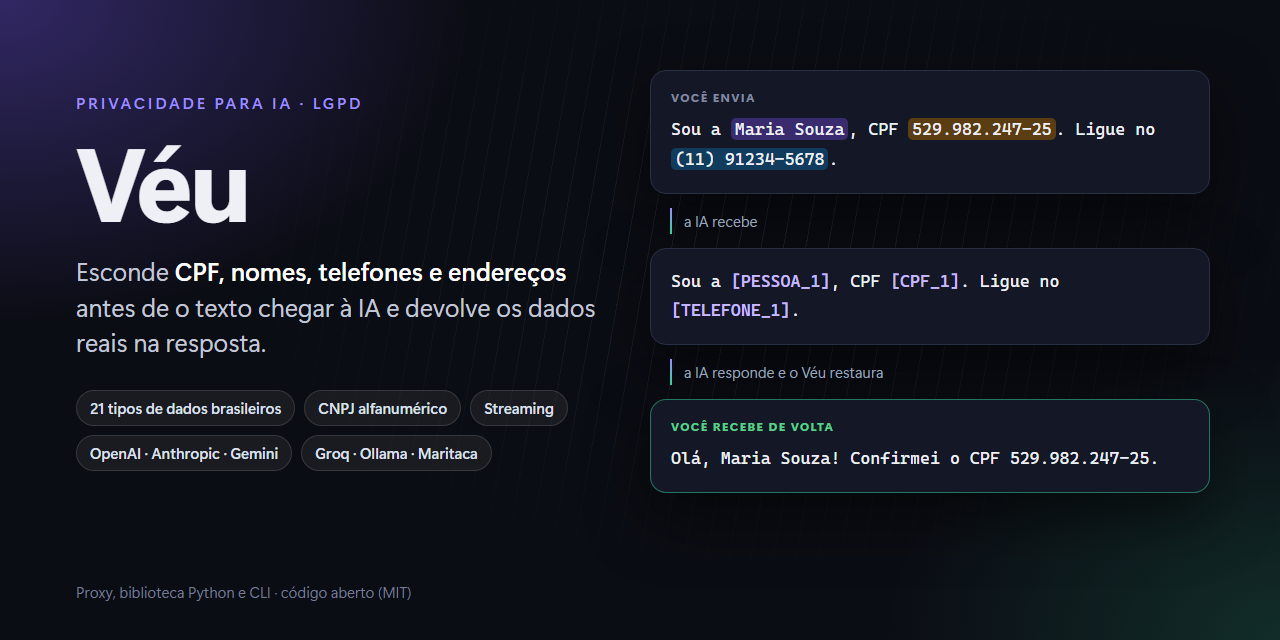
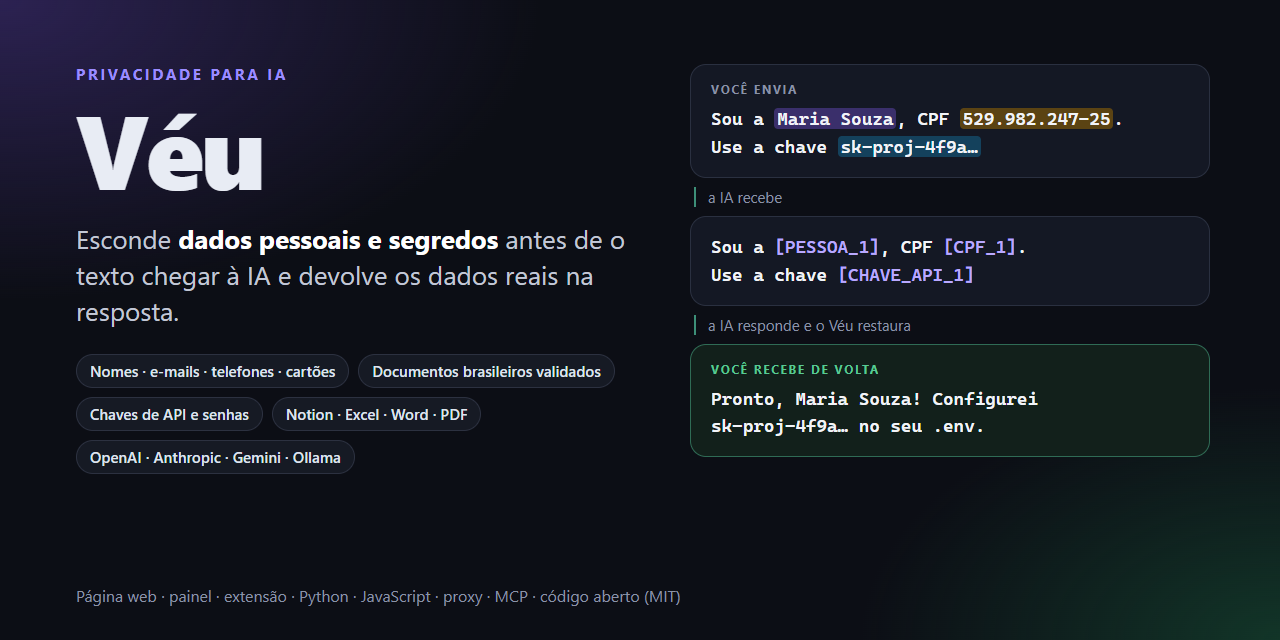
Present Véu as protection for personal data and secrets in general
Rewrite the README opening and features, regenerate the banner from a
versioned HTML source, and update the PyPI, npm, Action, pre-commit
and MCP descriptions. Brazilian documents stay as the most complete
support, and other countries' documents join the roadmap.

diff --git a/docs/banner.html b/docs/banner.html
@@ -1,0 +1,67 @@
+<!doctype html>
+<!--
+  Fonte do docs/banner.png (1280x640, também serve de imagem de compartilhamento do GitHub).
+  Para regerar depois de mudar o texto:
+    node docs/gerar-banner.mjs
+-->
+<html lang="pt-BR">
+<head>
+<meta charset="utf-8">
+<style>
+  * { box-sizing: border-box; margin: 0; }
+  body { width: 1280px; height: 640px; overflow: hidden; font-family: "Segoe UI", system-ui, sans-serif; color: #e8ecf4;
+    background: radial-gradient(900px 500px at 0% 0%, #2c2252 0%, transparent 60%),
+                radial-gradient(700px 420px at 100% 100%, #123528 0%, transparent 60%), #0c0e15; }
+  .grade { display: grid; grid-template-columns: 560px 1fr; gap: 54px; padding: 64px 70px 0 76px; }
+  .selo { color: #9b8cff; letter-spacing: .18em; font-weight: 700; font-size: 15px; margin-bottom: 14px; }
+  h1 { font-size: 104px; line-height: .95; letter-spacing: -.03em; font-weight: 800; margin-bottom: 24px; }
+  .frase { font-size: 26px; line-height: 1.38; color: #c2c8d6; margin-bottom: 26px; }
+  .frase b { color: #fff; }
+  .chips { display: flex; flex-wrap: wrap; gap: 9px; }
+  .chips span { border: 1px solid #2c3140; background: #161a24; border-radius: 999px; padding: 6px 13px; font-size: 15px; font-weight: 600; color: #dfe4ee; }
+  .cartao { border: 1px solid #2a3040; background: #141824; border-radius: 16px; padding: 16px 20px; }
+  .cartao.volta { border-color: #2f6b55; background: #12201b; }
+  .rotulo { font-size: 12px; letter-spacing: .14em; font-weight: 700; color: #8b93a7; margin-bottom: 8px; }
+  .volta .rotulo { color: #59c995; }
+  .codigo { font: 600 18px/1.55 "Cascadia Mono", Consolas, monospace; color: #f2f4f8; }
+  .p { background: #3a2f6b; border-radius: 4px; padding: 0 3px; }
+  .d { background: #5b4313; border-radius: 4px; padding: 0 3px; }
+  .s { background: #14415c; border-radius: 4px; padding: 0 3px; }
+  .m { color: #b9a8ff; }
+  .seta { color: #8b93a7; font-size: 15px; margin: 9px 0 9px 4px; padding-left: 12px; border-left: 2px solid #3d8f78; }
+  .rodape { position: absolute; left: 76px; bottom: 34px; color: #8b93a7; font-size: 16px; }
+</style>
+</head>
+<body>
+  <div class="grade">
+    <div>
+      <div class="selo">PRIVACIDADE PARA IA</div>
+      <h1>Véu</h1>
+      <p class="frase">Esconde <b>dados pessoais e segredos</b> antes de o texto chegar à IA e devolve os dados reais na resposta.</p>
+      <div class="chips">
+        <span>Nomes · e-mails · telefones · cartões</span>
+        <span>Documentos brasileiros validados</span>
+        <span>Chaves de API e senhas</span>
+        <span>Notion · Excel · Word · PDF</span>
+        <span>OpenAI · Anthropic · Gemini · Ollama</span>
+      </div>
+    </div>
+    <div>
+      <div class="cartao">
+        <div class="rotulo">VOCÊ ENVIA</div>
+        <div class="codigo">Sou a <span class="p">Maria Souza</span>, CPF <span class="d">529.982.247-25</span>.<br>Use a chave <span class="s">sk-proj-4f9a…</span></div>
+      </div>
+      <div class="seta">a IA recebe</div>
+      <div class="cartao">
+        <div class="codigo">Sou a <span class="m">[PESSOA_1]</span>, CPF <span class="m">[CPF_1]</span>.<br>Use a chave <span class="m">[CHAVE_API_1]</span></div>
+      </div>
+      <div class="seta">a IA responde e o Véu restaura</div>
+      <div class="cartao volta">
+        <div class="rotulo">VOCÊ RECEBE DE VOLTA</div>
+        <div class="codigo">Pronto, Maria Souza! Configurei<br>sk-proj-4f9a… no seu .env.</div>
+      </div>
+    </div>
+  </div>
+  <div class="rodape">Página web · painel · extensão · Python · JavaScript · proxy · MCP · código aberto (MIT)</div>
+</body>
+</html>

diff --git a/web/index.html b/web/index.html
@@ -86,9 +86,9 @@
 
     <details class="mais">
       <summary>O que o Véu encontra?</summary>
-      <p>Documentos brasileiros (CPF, CNPJ, RG, CNH, título, PIS, cartão do SUS), nomes, telefones, e-mails, endereços,
-        CEP, placas, cartões, contas, Pix, datas de nascimento, processos judiciais, IBAN, chaves de API, tokens, senhas e
-        chaves privadas. CPF, CNPJ e outros documentos são conferidos pelo dígito verificador.</p>
+      <p>Nomes, e-mails, telefones (de qualquer país), endereços, cartões, IBAN, endereços IP, datas de nascimento,
+        chaves de API, tokens, senhas e chaves privadas. E também documentos brasileiros (CPF, CNPJ, RG, CNH, título, PIS,
+        cartão do SUS, CEP, placas, Pix, processos judiciais), conferidos pelo dígito verificador.</p>
       <p>Nenhuma detecção automática é perfeita: confira o texto protegido antes de enviar.</p>
     </details>
   </main>

diff --git a/src/veu/integrations/mcp.py b/src/veu/integrations/mcp.py
@@ -30,7 +30,7 @@ from veu.vault import Vault
 
 MAX_FILE_BYTES = 20 * 1024 * 1024
 INSTRUCTIONS = (
-    "O Véu encontra e esconde dados pessoais brasileiros e segredos (CPF, CNPJ, nomes, telefones, e-mails, endereços, "
+    "O Véu encontra e esconde dados pessoais e segredos (nomes, e-mails, telefones, endereços, CPF, CNPJ, cartões, "
     "chaves de API, senhas...). Para ler uma página do Notion, um Google Docs/Sheets, um link ou um documento (Word, "
     "Excel, PowerPoint, PDF), use ler_protegido: o conteúdo chega com os dados trocados por marcadores. Para arquivos, "
     "prefira verificar_arquivo e anonimizar_arquivo: eles processam os dados localmente e devolvem só contagens e "

diff --git a/src/veu/__init__.py b/src/veu/__init__.py
@@ -1,4 +1,4 @@
-"""Véu: esconde dados pessoais brasileiros antes de enviar textos para modelos de IA.
+"""Véu: esconde dados pessoais e segredos antes de enviar textos para modelos de IA.
 
 Uso rápido:
 

diff --git a/README.md b/README.md
@@ -1,5 +1,5 @@
 <p align="center">
-  <img src="docs/banner.png" alt="Véu: esconde CPF, nomes, telefones e endereços antes de o texto chegar à IA e devolve os dados reais na resposta" width="100%">
+  <img src="docs/banner.png" alt="Véu: esconde dados pessoais e segredos antes de o texto chegar à IA e devolve os dados reais na resposta" width="100%">
 </p>
 
 <p align="center">
@@ -13,20 +13,25 @@
 
 # Véu
 
-**O Véu esconde dados pessoais e segredos antes de um texto chegar a uma IA e devolve os dados reais na resposta.** A IA trabalha com `[PESSOA_1]`, `[CPF_1]` e `[CHAVE_API_1]`. Você vê "Maria Souza", "529.982.247-25" e a chave de verdade.
+**O Véu esconde dados pessoais e segredos antes de um texto chegar a uma IA e devolve os dados reais na resposta.** A IA trabalha com `[PESSOA_1]`, `[EMAIL_1]` e `[CHAVE_API_1]`. Você vê os dados de verdade.
 
 ```text
-Você envia     Sou a Maria Souza, CPF 529.982.247-25. Meu pedido atrasou.
-A IA recebe    Sou a [PESSOA_1], CPF [CPF_1]. Meu pedido atrasou.
-A IA responde  Olá, [PESSOA_1]! Localizei o pedido do CPF [CPF_1].
-Você recebe    Olá, Maria Souza! Localizei o pedido do CPF 529.982.247-25.
+Você envia     Sou a Maria Souza (maria@example.com), CPF 529.982.247-25. Use a chave sk-proj-4f9a...
+A IA recebe    Sou a [PESSOA_1] ([EMAIL_1]), CPF [CPF_1]. Use a chave [CHAVE_API_1]
+A IA responde  Pronto, [PESSOA_1]! Configurei [CHAVE_API_1] no seu .env.
+Você recebe    Pronto, Maria Souza! Configurei sk-proj-4f9a... no seu .env.
 ```
 
-Empresas e pessoas estão colocando IA no atendimento, nos contratos, no RH e no código. Junto com cada pergunta vão CPF, nome e telefone de clientes, e também chaves de API e senhas. O Véu fica no meio do caminho:
+Empresas e pessoas estão colocando IA no atendimento, nos contratos, no RH e no código. Junto com cada pergunta vão nomes, documentos e contatos de clientes, e também chaves de API e senhas. O Véu fica no meio do caminho e protege:
 
-- **Entende documentos brasileiros de verdade:** confere os dígitos verificadores, inclusive do CNPJ alfanumérico de 2026.
-- **Reconhece segredos:** chaves de mais de 30 serviços, tokens, senhas e chaves privadas.
-- **Funciona do jeito que você usa IA:** no navegador, no computador, no seu código ou no servidor da empresa.
+- **Dados pessoais de qualquer país:** nomes, e-mails, telefones (com código de qualquer país), cartões, IBAN, endereços IP e datas de nascimento.
+- **Documentos brasileiros, conferidos de verdade:** CPF, CNPJ (inclusive o alfanumérico de 2026), RG, CNH, PIS, cartão do SUS e outros, pelos dígitos verificadores.
+- **Segredos de qualquer serviço:** chaves de API de mais de 30 serviços, tokens, senhas, chaves privadas e URLs de banco com senha.
+
+E funciona do jeito que você usa IA: no navegador, no computador, no seu código ou no servidor da empresa.
+
+> [!NOTE]
+> O Véu nasceu no Brasil: os documentos brasileiros têm o suporte mais completo e a interface está em português. E-mails, telefones internacionais, cartões, IBAN, IPs e segredos funcionam em textos de qualquer lugar. Os nomes são reconhecidos por listas de nomes brasileiros; para nomes de outras línguas, ligue o detector spaCy ou um modelo local. Documentos de outros países estão nos [próximos passos](#próximos-passos).
 
 > [!IMPORTANT]
 > Nenhuma detecção automática é perfeita. O Véu **reduz** muito o risco de enviar dados pessoais, mas não o elimina. Veja os [números do benchmark](#benchmark) e as [limitações](SECURITY.md#o-que-o-véu-não-faz). Não é aconselhamento jurídico sobre a LGPD.
@@ -88,12 +93,8 @@ Para abrir de novo, use o atalho **Véu** ou rode `veu painel`.
 
 ## Recursos
 
-- 🇧🇷 **28 tipos de dados:**
-  - documentos brasileiros: CPF, CNPJ, RG, CNH, título de eleitor, PIS/NIT, cartão do SUS e passaporte;
-  - contatos e localização: nomes de pessoas, telefone (brasileiro e internacional), e-mail, endereço, CEP e IP;
-  - financeiros: cartão, conta bancária, IBAN e chave Pix;
-  - outros: placa, RENAVAM, data de nascimento e processo do CNJ;
-  - **segredos**.
+- 🌍 **Dados pessoais de qualquer lugar:** nomes, e-mails, telefones (brasileiros e de qualquer país, com +código), endereços, cartões de crédito, IBAN, endereços IP (v4 e v6) e datas de nascimento.
+- 🇧🇷 **Documentos brasileiros:** CPF, CNPJ (numérico e alfanumérico), RG, CNH, título de eleitor, PIS/NIT, cartão do SUS, passaporte, CEP, placa, RENAVAM, conta bancária, chave Pix e processo do CNJ.
 - 🔑 **Segredos:**
   - chaves da OpenAI, Anthropic, AWS, Google, GitHub, Stripe, Slack, Hugging Face, Notion, Mercado Pago, Asaas e mais 20 serviços;
   - JWT e tokens Bearer;
@@ -107,7 +108,8 @@ Para abrir de novo, use o atalho **Véu** ou rode `veu painel`.
 - 🧠 **Nomes sem modelo de IA:**
   - listas de nomes brasileiros, capitalização e contexto ("Sr.", "cliente", "oi joão");
   - não confunde "Banco do Brasil" nem "Rua Augusta";
-  - opcionalmente, spaCy ou um modelo local.
+  - pessoas que o Notion identifica são sempre escondidas;
+  - para nomes de outras línguas, ligue o spaCy ou um modelo local.
 - 🔁 **Reversível e consistente:**
   - o mesmo dado recebe sempre o mesmo marcador;
   - "João" sozinho é ligado a "João da Silva";
@@ -345,7 +347,7 @@ Leia o [modelo de ameaças e as limitações](SECURITY.md) antes de usar em prod
 git clone https://github.com/guhttps/veu && cd veu
 python -m venv .venv && .venv/Scripts/activate      # Linux/macOS: source .venv/bin/activate
 pip install -e ".[dev]"
-pytest                    # 295 testes, inclusive com os SDKs oficiais, LangChain, MCP, Office e Redis
+pytest                    # 300 testes, inclusive com os SDKs oficiais, LangChain, MCP, Office e Redis
 ruff check .
 veu avaliar               # benchmark
 cd js && npm ci && npm test                       # biblioteca JavaScript (inclui a conformidade com o Python)
@@ -358,6 +360,8 @@ Veja o [guia de contribuição](CONTRIBUTING.md). Contribuições de nomes, padr
 
 - [x] Publicar no PyPI (`pip install veu`) e no npm (`@guhttps/veu`)
 - [x] Instalador de um comando e painel para quem não programa
+- [ ] Documentos de outros países (Portugal, Argentina, México, Chile, Estados Unidos...)
+- [ ] Nomes de outras línguas sem precisar de modelo
 - [ ] Abrir Excel e Word direto na página web, sem instalar nada
 - [ ] Operador sintético na versão JavaScript
 - [ ] Bibliotecas para Go e Java

diff --git a/AGENTS.md b/AGENTS.md
@@ -1,6 +1,8 @@
 # Instruções para agentes de código (Codex, Claude Code e outros)
 
-O Véu esconde dados pessoais brasileiros e segredos antes de textos irem para modelos de IA e restaura as respostas. Leia o README para a visão geral.
+O Véu esconde dados pessoais e segredos antes de textos irem para modelos de IA e restaura as respostas, com suporte completo a documentos brasileiros. Leia o README para a visão geral.
+
+Mantenha o README em dia: toda mudança visível (recurso, integração, comando, número de testes, versão) atualiza o README no mesmo commit, e também o banner (`docs/banner.html` + `node docs/gerar-banner.mjs`) e a descrição do repositório quando mudarem.
 
 ## Comandos
 

diff --git a/js/README.md b/js/README.md
@@ -1,6 +1,6 @@
 # @guhttps/veu
 
-**Véu para JavaScript e TypeScript.** Esconde dados pessoais brasileiros e segredos (CPF, CNPJ, nomes, telefones, endereços, chaves de API, senhas) antes de o texto chegar a um modelo de IA, e devolve os dados reais na resposta.
+**Véu para JavaScript e TypeScript.** Esconde dados pessoais e segredos (nomes, e-mails, telefones de qualquer país, CPF, CNPJ, cartões, chaves de API, senhas) antes de o texto chegar a um modelo de IA, e devolve os dados reais na resposta.
 
 ```
 Você escreve:   "Cliente Maria Souza, CPF 529.982.247-25, chave sk-proj-..."

diff --git a/CHANGELOG.md b/CHANGELOG.md
@@ -5,6 +5,9 @@ O formato segue o [Keep a Changelog](https://keepachangelog.com/pt-BR/1.1.0/) e 
 
 ## [Unreleased]
 
+### Alterado
+- README, banner, descrições do PyPI e do npm, GitHub Action, hook de pre-commit e servidor MCP passam a apresentar o Véu como proteção de dados pessoais e segredos em geral, com suporte completo a documentos brasileiros (e não só para dados brasileiros).
+
 ## [0.5.2] - 2026-11-07
 
 Ajustes do Notion, encontrados testando com uma conta de verdade.
